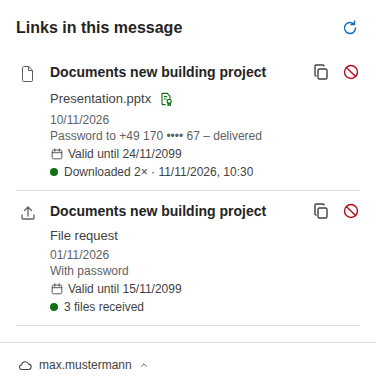
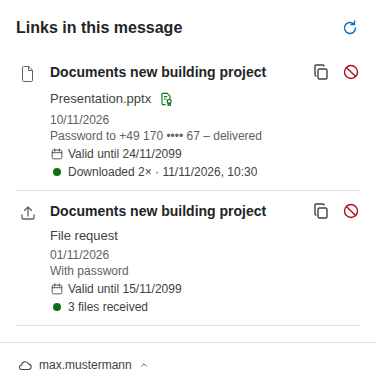
History lines: "Nachricht und Kennwort an", symbols aligned, shorter hint (#111)
* History lines: "Nachricht und Kennwort an", symbols aligned, shorter hint

- "Verlauf" / "Zustellnachweise": one line "<day> · Nachricht und Kennwort an …"
  when the password went by mail to exactly the recipients (sameAddresses), else
  "Nachricht an …" and "Kennwort an …" (other address, SMS)
- The state dot sits centred under the calendar of "Gültig bis"
- One-password hint without the trailing clause
- Help, README, architecture and CLAUDE.md in step

* README pictures of the pane from CI (readme-pictures)

---------

Changed region(s): [[0.117, 0.4352, 0.7021, 0.4663], [0.117, 0.7772, 0.4096, 0.8083]]

diff --git a/addin/e2e/taskpane.e2e.ts b/addin/e2e/taskpane.e2e.ts
@@ -713,7 +713,7 @@ test("uploads a large attachment in chunks, removes it and inserts the card", as
   // "Zufällig", "Eigenes", "Ohne Kennwort" and "Kennwort an" are greyed out.
   await expect(page.locator("#mode-same")).toBeChecked();
   await expect(page.locator("#password")).toHaveValue(password);
-  await expect(page.locator("#password-hint")).toContainText("pro Nachricht nur ein Kennwort");
+  await expect(page.locator("#password-hint")).toHaveText("Diese Nachricht hat schon ein Kennwort. Weitere Dateien, Nachrichten und Upload-Links erhalten dasselbe Kennwort auf demselben Weg.");
   expect(JSON.parse((await officeLog(page)).session["cloudshare-state"]).lastStep.password).toBe(password);
   for (const mode of ["#mode-random", "#mode-own", "#mode-none"]) await expect(page.locator(mode)).toBeDisabled();
   await expect(page.locator("#password-channel")).toBeDisabled();
@@ -1916,6 +1916,7 @@ const SENT_MAIL = '<p>Hallo,</p><a href="https://cloud.example.com/s/a">Herunter
 test("Verlauf: the subject is the title and opens the mail; confidential messages with password and revoke only", async ({ page }) => {
   const message = { id: "msg-s1", kind: "message", name: "Vertrauliche Nachricht", url: null, accessId: "acc9", sharedAt: Date.parse("2026-11-12"),
     expiration: "2099-11-17", downloads: null, received: null, protected: true, passwordAvailable: true, subject: "Zugangsdaten", mailId: "AAMk-mail",
+    sentAt: Date.parse("2026-11-12T09:00:00Z"), sentTo: { to: ["Erika@example.com"], cc: [] },
     password: { channel: "mail", to: "erika@example.com", status: null, at: Date.parse("2026-11-12T08:00:00Z"), deliveredAt: null } };
   const calls = await openTaskpane(page, {
     shares: [
@@ -1936,7 +1937,8 @@ test("Verlauf: the subject is the title and opens the mail; confidential message
   );
   await expect(rows.nth(0).locator(".share-title")).toHaveAttribute("aria-label", "Unterlagen Neubau, Nachricht öffnen");
   // Like "Zustellnachweise": the day it went out and to whom (To and Cc) right in the entry.
-  await expect(rows.nth(0).locator(".share-sent")).toHaveText("16.11.2026 · an erika@example.com, max@example.com, chef@example.com");
+  await expect(rows.nth(0).locator(".share-sent")).toHaveText("16.11.2026 · Nachricht an erika@example.com, max@example.com, chef@example.com");
+  await expect(rows.nth(0).locator(".share-password")).toHaveText("Kennwort an +49 170 •••• 67 – zugestellt"); // SMS: its own line
   // Below the subject what went out, in plain text: the file name (the document symbol on the left shows the kind).
   await expect(rows.nth(0).locator(".share-item")).toHaveText("Präsentation.pptx");
   await expect(rows.nth(0).locator(".badge")).toHaveCount(0);
@@ -1961,6 +1963,9 @@ test("Verlauf: the subject is the title and opens the mail; confidential message
   await expect(msg.locator(".insert")).toBeHidden();
   await expect(msg.locator(".share-state")).toBeHidden(); // no download state for a message
   await expect(msg.locator(".share-valid")).toHaveText("Gültig bis 17.11.2099");
+  // Message and password to the same address (case does not matter): one line, the password line hidden.
+  await expect(msg.locator(".share-sent")).toHaveText("12.11.2026 · Nachricht und Kennwort an Erika@example.com");
+  await expect(msg.locator(".share-password")).toBeHidden();
   await expectAccessible(page);
 
   // Revoked: deleted in Vaultwarden.
@@ -2526,7 +2531,9 @@ test("Zustellnachweise: every proof in the account menu, filtered and searched, 
   const entries = page.locator("#proofs-list .proof-entry");
   await expect(entries).toHaveCount(2);
   await expect(entries.nth(0).locator(".share-title")).toHaveText("Unterlagen Neubau");
-  await expect(entries.nth(0)).toContainText("18.11.2026 · an erika@example.com");
+  // Message and password to the same address: one line instead of the address twice.
+  await expect(entries.nth(0).locator(".proof-sent")).toHaveText("18.11.2026 · Nachricht und Kennwort an erika@example.com");
+  await expect(entries.nth(0).locator(".proof-password")).toBeHidden();
   // Like a row of "Verlauf": the file with its seal, to whom, the state with its dot, the tracking ID.
   await expect(entries.nth(0).locator(".share-item")).toHaveText("Angebot.zip");
   await expect(entries.nth(0).locator(".state-text")).toHaveText("1× heruntergeladen");
@@ -2539,7 +2546,9 @@ test("Zustellnachweise: every proof in the account menu, filtered and searched, 
   await expect(entries.nth(0).locator(".share-actions")).toHaveCount(0);
   await expect(entries.nth(1).locator(".state-text")).toHaveText("Noch nicht abgerufen");
   await expect(entries.nth(1).locator(".share-valid")).toHaveText("Gültig bis 26.11.2026");
-  await expect(entries.nth(0).locator(".proof-password")).toHaveText("Kennwort an erika@example.com");
+  // The password went to another address: two lines.
+  await expect(entries.nth(1).locator(".proof-sent")).toHaveText("12.11.2026 · Nachricht an kunde@example.org");
+  await expect(entries.nth(1).locator(".proof-password")).toHaveText("Kennwort an erika@example.com");
   // The subject opens the sent mail, as in "Verlauf" – only where the mail is known.
   await entries.nth(0).locator("button.share-title").click();
   await expect.poll(async () => (await officeLog(page)).openedMails).toContain("ews-proof-20261118-1646-CBMH");

diff --git a/addin/src/taskpane/taskpane.ts b/addin/src/taskpane/taskpane.ts
@@ -2184,6 +2184,15 @@ function proofSeal(id: string, state: ProofState | null | undefined): HTMLButton
 
 const dayOf = (date: string) => formatDate(Date.parse(`${date}T12:00:00Z`));
 
+/**
+ * The password went by mail to exactly the addresses the message went to (To, Cc): then one line says both –
+ * "Nachricht und Kennwort an …" – instead of the same addresses twice. Any other address or an SMS keeps two lines.
+ */
+function sameAddresses(a: string[], b: string[]): boolean {
+  const norm = (list: string[]) => [...new Set(list.map((s) => s.trim().toLowerCase()).filter(Boolean))].sort().join(",");
+  return a.length > 0 && norm(a) === norm(b);
+}
+
 /** The line "Gültig bis 03.12.2026" of an entry in "Verlauf" and "Zustellnachweise" – above its state. */
 const VALID_LINE =
   `<div class="share-meta share-valid" hidden><svg class="icon" viewBox="0 0 16 16" aria-hidden="true">` +
@@ -2245,10 +2254,13 @@ function proofRow(p: ProofItem): HTMLElement {
   item.textContent = p.kind === "file" ? p.files.join(", ") : t(`shares.kind.${p.kind}`);
   item.title = p.files.join(", ");
   item.append(proofSeal(p.id, p.state));
+  // "Nachricht und Kennwort an …" when both went to the same addresses, else "Nachricht an …" and "Kennwort an …" –
+  // like the lines of "Verlauf".
+  const together = p.passwordTo !== null && sameAddresses(p.passwordTo, p.recipients);
   row.querySelector<HTMLElement>(".proof-sent")!.textContent =
-    t("proofs.sentTo", { date: formatDate(p.sentAt), to: p.recipients.join(", ") || "–" });
-  // "Kennwort an erika@example.com" – like the password line of "Verlauf".
+    t(together ? "proofs.sentWithPasswordTo" : "proofs.sentTo", { date: formatDate(p.sentAt), to: p.recipients.join(", ") || "–" });
   const password = row.querySelector<HTMLElement>(".proof-password")!;
+  password.hidden = together;
   password.textContent = p.passwordTo === null
     ? t("proofs.withoutPassword")
     : p.passwordTo.length ? t("proofs.passwordTo", { to: p.passwordTo.join(", ") }) : t("proofs.passwordPending");
@@ -2828,14 +2840,17 @@ function shareRow(share: ShareItem): HTMLElement {
     row.querySelector(".share-head")!.after(item);
   }
 
-  // The same lines as an entry of "Zustellnachweise": "18.11.2026 · an erika@example.com", "Kennwort an …", and the
-  // state ending in "endet 02.12.2026".
+  // The same lines as an entry of "Zustellnachweise": "18.11.2026 · Nachricht und Kennwort an erika@example.com" when
+  // the password went by mail to exactly the recipients, else "… · Nachricht an …" and "Kennwort an …" (other address,
+  // SMS) – then "Gültig bis …" and the state.
   const sentLine = row.querySelector<HTMLElement>(".share-sent")!;
   const sentTo = share.sentTo ? [...share.sentTo.to, ...share.sentTo.cc] : [];
+  const together = share.password?.channel === "mail" && sentTo.length > 0 && sameAddresses(share.password.to.split(/,\s*/), sentTo);
   sentLine.textContent = sentTo.length
-    ? t("proofs.sentTo", { date: formatDate(share.sentAt ?? share.sharedAt), to: sentTo.join(", ") })
+    ? t(together ? "proofs.sentWithPasswordTo" : "proofs.sentTo", { date: formatDate(share.sentAt ?? share.sharedAt), to: sentTo.join(", ") })
     : formatDate(share.sharedAt);
-  sentLine.title = t("shares.sharedOn", { date: formatDate(share.sharedAt) });
+  sentLine.title = [t("shares.sharedOn", { date: formatDate(share.sharedAt) }), together && share.password ? passwordText(share.password) : ""]
+    .filter(Boolean).join("\n");
   const passwordLine = row.querySelector<HTMLElement>(".share-password")!;
   passwordLine.textContent = share.password
     ? passwordShort(share.password)
@@ -2843,7 +2858,8 @@ function shareRow(share: ShareItem): HTMLElement {
       ? t("proofs.withoutPassword")
       : t("shares.withPasswordLine");
   // Not sent yet: the bold line below says so – no "Kennwort noch nicht gesendet" on top of it.
-  passwordLine.parentElement!.hidden = Boolean(share.unsent && !share.password && share.protected !== false);
+  // Said in the line above already ("Nachricht und Kennwort an …").
+  passwordLine.parentElement!.hidden = together || Boolean(share.unsent && !share.password && share.protected !== false);
   fillValidLine(row, share.expiration);
   passwordLine.title = share.password ? passwordText(share.password) : "";
   passwordLine.classList.toggle("failed", share.password?.status === "failed");

diff --git a/addin/src/taskpane/taskpane.css b/addin/src/taskpane/taskpane.css
@@ -521,14 +521,15 @@ button.share-title:focus-visible { outline: 2px solid var(--focus); outline-offs
 .share-meta { font-size: 12px; line-height: 16px; color: var(--fg3); }
 .share-password.failed { color: var(--danger-fg); }
 .share-unsent { color: var(--fg2); font-weight: 600; }
-.share-state { display: flex; align-items: center; gap: 6px; font-size: 12px; line-height: 16px; margin-top: 2px; color: var(--fg2); }
+.share-state { display: flex; align-items: center; gap: 4px; font-size: 12px; line-height: 16px; margin-top: 2px; color: var(--fg2); }
 /* The state ("1× heruntergeladen · …") on one line – shortened with "…", the whole text in its tooltip. */
 .share-state .state-text { min-width: 0; overflow: hidden; text-overflow: ellipsis; white-space: nowrap; }
 /* "Gültig bis 03.12.2026" above the state: a calendar before it, orange from two days before the end. */
 .share-valid { display: flex; align-items: center; gap: 4px; margin-top: 2px; color: var(--fg2); }
 .share-valid .icon { width: 14px; height: 14px; flex: none; }
 .share-valid.soon { color: var(--warning-fg); }
-.share-state .dot-state { width: 8px; height: 8px; border-radius: 50%; background: var(--stroke1); flex: none; }
+/* The dot centred in the 14px column of the calendar above, so both symbols and both texts line up. */
+.share-state .dot-state { width: 8px; height: 8px; margin: 0 3px; border-radius: 50%; background: var(--stroke1); flex: none; }
 .share-state.done .dot-state { background: var(--success-fg); }
 /* Icon buttons at the right of the name; the revoke button shows "Wirklich?" as text until confirmed. */
 .share-actions { display: flex; flex: none; margin-right: -6px; }

diff --git a/CLAUDE.md b/CLAUDE.md
@@ -23,7 +23,7 @@ One container serves everything behind Caddy:
 - Nextcloud does not accept Entra tokens (typically it logs in via another IdP, e.g. Keycloak through `user_oidc`). Instead each user connects once via Nextcloud Login Flow v2; the resulting app password is stored encrypted per Entra `oid` in the database (`credentials.ts`, store `credentials`, key `CREDENTIAL_KEY`) and used as Basic auth. A 401 from Nextcloud deletes the stored credential and returns error code `NEXTCLOUD_NOT_CONNECTED`, which makes the taskpane show the connect view.
 - Nextcloud access is server-to-server (no CORS on Nextcloud): WebDAV chunked upload v2 + OCS share API (`nextcloud.ts`). Nextcloud-reported URLs are rewritten onto `NEXTCLOUD_URL`. Vaultwarden Sends are created through `bw serve` running in the same container on 127.0.0.1:8087 with a service account (`vaultwarden.ts`). Upload/job/pending-login state is in-memory (`store.ts`) → single instance only.
 - `addin/` – XML manifest + taskpane (Nextcloud connect/disconnect, converts existing attachments via `getAttachmentContentAsync` → upload → `removeAttachmentAsync`, plus file picker (`window.showOpenFilePicker` first, hidden `<input type="file">` as fallback – classic Outlook's WebView did not reliably open the dialog for a file input; steps are traced with `CLIENT_TRACE`) and drag & drop onto the "Senden" tab for files beyond Outlook's limit – in classic Outlook the WebView2 file dialog sometimes opens behind the Outlook window; inserts links) + event handlers in `commands.ts`: `OnMessageAttachmentsChanged` shows an InsightMessage with a "open taskpane" action (add-ins cannot open the taskpane themselves), `OnMessageRecipientsChanged` runs the same check (the size is the total of all attachments of the mail, and it depends on the recipients: `ATTACHMENT_THRESHOLD_MB` as soon as one is outside `INTERNAL_DOMAINS` – default the user's own domain –, else `ATTACHMENT_THRESHOLD_INTERNAL_MB` and `ATTACHMENT_POLICY_INTERNAL`, also without recipients; `attachmentRule` in `shared/office.ts`, 0 = every attachment, texts without a size; in the pane every attachment is ticked whatever its size, an unticked one stays unticked on redraw; every file row has an "×" that removes the file – no "Groß" mark), `OnMessageSend` runs with manifest `SendMode="SoftBlock"`; env `ATTACHMENT_POLICY` (served via `/api/config`, cached in `roamingSettings`) decides: `enforce` blocks large attachments before arming the password mail (no "Send anyway"), `suggest` arms the password mail first and relaxes to PromptUser via `sendModeOverride` (Mailbox 1.14). The taskpane mimics Outlook (Fluent 2 tokens, Office theme, Outlook wording "Nachricht"/"Kennwort") – keep new UI consistent with that. The message bar stays in sight at the top while the pane scrolls (`position: sticky`). Messages run down (`SUCCESS_MESSAGE_SECONDS`, default 5: a ring around the tick, "!" or "i" empties clockwise, paused on hover/focus, `setStatus`); progress (kind `progress`) and messages with "Erneut versuchen" stay. Bundled as IIFE because classic Outlook runs the handlers in a JavaScript-only runtime (no DOM, no ES modules); `commands.js` is built with target `es2016` and without `Headers`/`Promise.finally` (guarded by `addin/test/bundle.test.ts`); it registers its handlers immediately (classic) and again in `Office.onReady` (browser runtime: office.js loads `Office.actions` only after the script ran – `commands-load.test.ts`), and that runtime only allows SSO and fetch because the server serves `/.well-known/microsoft-officeaddins-allowed.json` listing `commands.js`.
-- Taskpane has no tabs: the view is "Senden" (reading a mail: the links of that mail, `#panel-mail`, `currentView`); "Verlauf" (`#shares-open`, right above "Zustellnachweise" in the account menu) is a page like the settings with a search `#shares-search` (`/api/shares`: all valid links, loaded when opened, on focus and by `#refresh-shares` in its head; one quiet bottom bar `.account-bar` under every tab, the help and the settings (one line: the account as a menu button `#account-toggle` like Outlook's profile menu – `#account-menu` opens above it with icon entries "Nextcloud öffnen" `#nextcloud-open` (NEXTCLOUD_URL from `/api/config` in the default browser, `openBrowserWindow`), "Zustellnachweise" `#proofs-open` (only with DELIVERY_PROOF: every proof, searchable), "Einstellungen" `#settings-open`, "Feedback senden" `#feedback-open` (only with `FEEDBACK_MAIL`: a page `#panel-feedback` – problem or suggestion, text, technical details shown before they go – mailed by `POST /api/feedback` from the user's own mailbox to that address, never anything public; `feedback.ts` in add-in and server, `docs/architecture.md` 2.15), "Hilfe" `#help-toggle` and "Verbindung trennen" `#disconnect` (two clicks like "Zurückziehen": `armDisconnect`), closes on Escape or a click elsewhere; its head `.account-menu-head` shows the whole name `#account-menu-name` and the storage `#account-storage` with a bar `#storage-meter` (used share of the quota, red from 90 %) – nothing else in the bar; fixed height `--bar-height`, the "Senden" footer sticks above it; variants are shown to the user before UI changes like this); one entry per link or confidential message: title = subject of its sent mail (`history.ts`, store `sent-mails`, Graph ID with `Prefer: IdType="ImmutableId"`; a click opens the mail via `openSentMail`: `GET /api/shares/:id/mail` translates the stored immutable ID into the current EWS ID with Graph `translateExchangeIds`, then `displayMessageFormAsync` – own mailbox only), below it plain text (file name, "Dateianforderung", "Vertrauliche Nachricht"), the kind as the symbol on the left (document, upload arrow, envelope with lock – no labels or coloured badges) (before sending: the draft's subject, sent with every link request as `subject`, `recordDraftSubject`; a subject typed later follows via `PATCH /api/jobs/:id` from the 4-second check `syncDraftSubject`; unsent without subject "(Noch kein Betreff)", older entries "(Betreff unbekannt)"), icon buttons Kopieren/Kennwort/Einfügen/Zurückziehen next to the title (messages: store `messages`, token `msg-<Send ID>`, only Kennwort and Zurückziehen – CloudShare never keeps their key) (long names shortened in the middle, extension kept – `nameParts`) (`ICONS` in `taskpane.ts`, also filled into the help via `data-icon`) and the same lines as an entry of "Zustellnachweise" – "<day> · an <To, Cc>", the password line, "Gültig bis <day>" with a calendar (`.share-valid`, `fillValidLine`, orange `--warning-fg` from two days before the end; a finished proof "Aufbewahrt bis <day>"), the state alone on the last line, shortened with "…" (password line: "Kennwort an <address>" / "Kennwort an <masked number> – <SMS state>", the time of the delivery in its tooltip; the same line in "Zustellnachweise"; dates always dd.mm.yyyy, times "HH:MM Uhr"; a delivery proof is a small seal `.proof-seal` after the file name that opens its PDF); revoke via `DELETE /api/shares/:id`, `revokeShare` in `shares.ts`; links are created on insert, so links whose job has not been dispatched are marked `unsent` – a job that expires without ever being armed (draft discarded, `armedOnce: false`) gets its links revoked by the watcher via `onUnsentExpired`/`revokeUnsentLinks`); "Hilfe" in the account menu (`#help-toggle`, `showHelp`) shows the guide in place of the current tab – a user guide for everyday users, `<details>` sections with texts `help.*` in the language files (keep it in plain words and in step with the UI when features change). "Senden" starts with a switch (`kind` radios, `selectKind`/`renderKind` in `taskpane.ts`) between "Dateien" (attachments + drop zone), "Nachricht" ("Vertrauliche Nachricht" via `/api/messages` = a Vaultwarden text Send protected with the step password, never stored in Nextcloud) and "Anfordern" (upload link via `/api/requests`); only the chosen part is shown and the single footer button `#submit` names what it inserts (`renderSubmit`). Below: password; the block "Empfänger", always in sight – "Kennwort an" (`<select>`) and for files the switch "Zustellnachweis" (`#proof`, `role="switch"`), label and control in one row (`.inline-row`); and "Gültigkeit" collapsed behind a one-line summary of the times (`renderValidity`). "Ohne Kennwort" is only offered for "Dateien" – prevent invalid choices in the UI rather than reporting them after the click, and say why: an option that does not exist for the chosen kind stays greyed out with an "i" that folds out the reason (`showUnavailable`, `#mode-none-unavailable`); "Zustellnachweis" is not shown at all for "Nachricht"/"Anfordern". Read mode: the manifest also has a pinnable `MessageReadCommandSurface` button (plus legacy `ItemRead` form) opening `taskpane.html?view=read` (`readMode`, `startReadView`) – tabs "Nachricht" (`#tab-mail`/`#panel-mail`: the shares whose token (`/s/<token>`) appears in the read mail's body, `mailTokens`; selected again on `ItemChanged`, in place of "Senden") and "Verlauf" (all valid links, as when writing); no server-side mail↔share mapping, no new permissions. A manifest change needs a new `<Version>`. Links are inserted (the first at the cursor, every further one right after the last CloudShare card wherever the cursor is – `cardPlace.ts`, `insertAfterLastCard`, body written back with `body.setAsync`) as an email-safe HTML card (`addin/src/taskpane/mailCard.ts`, tables + inline styles, one layout for files, message and upload link: title, a short sentence, the button on the left, details in grey below – per file a block –, buttons as filled table cells for classic Outlook, no signature – the sender's signature goes into the password mail, see below).
+- Taskpane has no tabs: the view is "Senden" (reading a mail: the links of that mail, `#panel-mail`, `currentView`); "Verlauf" (`#shares-open`, right above "Zustellnachweise" in the account menu) is a page like the settings with a search `#shares-search` (`/api/shares`: all valid links, loaded when opened, on focus and by `#refresh-shares` in its head; one quiet bottom bar `.account-bar` under every tab, the help and the settings (one line: the account as a menu button `#account-toggle` like Outlook's profile menu – `#account-menu` opens above it with icon entries "Nextcloud öffnen" `#nextcloud-open` (NEXTCLOUD_URL from `/api/config` in the default browser, `openBrowserWindow`), "Zustellnachweise" `#proofs-open` (only with DELIVERY_PROOF: every proof, searchable), "Einstellungen" `#settings-open`, "Feedback senden" `#feedback-open` (only with `FEEDBACK_MAIL`: a page `#panel-feedback` – problem or suggestion, text, technical details shown before they go – mailed by `POST /api/feedback` from the user's own mailbox to that address, never anything public; `feedback.ts` in add-in and server, `docs/architecture.md` 2.15), "Hilfe" `#help-toggle` and "Verbindung trennen" `#disconnect` (two clicks like "Zurückziehen": `armDisconnect`), closes on Escape or a click elsewhere; its head `.account-menu-head` shows the whole name `#account-menu-name` and the storage `#account-storage` with a bar `#storage-meter` (used share of the quota, red from 90 %) – nothing else in the bar; fixed height `--bar-height`, the "Senden" footer sticks above it; variants are shown to the user before UI changes like this); one entry per link or confidential message: title = subject of its sent mail (`history.ts`, store `sent-mails`, Graph ID with `Prefer: IdType="ImmutableId"`; a click opens the mail via `openSentMail`: `GET /api/shares/:id/mail` translates the stored immutable ID into the current EWS ID with Graph `translateExchangeIds`, then `displayMessageFormAsync` – own mailbox only), below it plain text (file name, "Dateianforderung", "Vertrauliche Nachricht"), the kind as the symbol on the left (document, upload arrow, envelope with lock – no labels or coloured badges) (before sending: the draft's subject, sent with every link request as `subject`, `recordDraftSubject`; a subject typed later follows via `PATCH /api/jobs/:id` from the 4-second check `syncDraftSubject`; unsent without subject "(Noch kein Betreff)", older entries "(Betreff unbekannt)"), icon buttons Kopieren/Kennwort/Einfügen/Zurückziehen next to the title (messages: store `messages`, token `msg-<Send ID>`, only Kennwort and Zurückziehen – CloudShare never keeps their key) (long names shortened in the middle, extension kept – `nameParts`) (`ICONS` in `taskpane.ts`, also filled into the help via `data-icon`) and the same lines as an entry of "Zustellnachweise" – "<day> · Nachricht an <To, Cc>" – "<day> · Nachricht und Kennwort an …" with the password line hidden when the password went by mail to exactly those addresses (`sameAddresses`) –, the password line, "Gültig bis <day>" with a calendar (`.share-valid`, `fillValidLine`, orange `--warning-fg` from two days before the end; a finished proof "Aufbewahrt bis <day>"), the state alone on the last line, shortened with "…" (password line: "Kennwort an <address>" / "Kennwort an <masked number> – <SMS state>", the time of the delivery in its tooltip; the same line in "Zustellnachweise"; dates always dd.mm.yyyy, times "HH:MM Uhr"; a delivery proof is a small seal `.proof-seal` after the file name that opens its PDF); revoke via `DELETE /api/shares/:id`, `revokeShare` in `shares.ts`; links are created on insert, so links whose job has not been dispatched are marked `unsent` – a job that expires without ever being armed (draft discarded, `armedOnce: false`) gets its links revoked by the watcher via `onUnsentExpired`/`revokeUnsentLinks`); "Hilfe" in the account menu (`#help-toggle`, `showHelp`) shows the guide in place of the current tab – a user guide for everyday users, `<details>` sections with texts `help.*` in the language files (keep it in plain words and in step with the UI when features change). "Senden" starts with a switch (`kind` radios, `selectKind`/`renderKind` in `taskpane.ts`) between "Dateien" (attachments + drop zone), "Nachricht" ("Vertrauliche Nachricht" via `/api/messages` = a Vaultwarden text Send protected with the step password, never stored in Nextcloud) and "Anfordern" (upload link via `/api/requests`); only the chosen part is shown and the single footer button `#submit` names what it inserts (`renderSubmit`). Below: password; the block "Empfänger", always in sight – "Kennwort an" (`<select>`) and for files the switch "Zustellnachweis" (`#proof`, `role="switch"`), label and control in one row (`.inline-row`); and "Gültigkeit" collapsed behind a one-line summary of the times (`renderValidity`). "Ohne Kennwort" is only offered for "Dateien" – prevent invalid choices in the UI rather than reporting them after the click, and say why: an option that does not exist for the chosen kind stays greyed out with an "i" that folds out the reason (`showUnavailable`, `#mode-none-unavailable`); "Zustellnachweis" is not shown at all for "Nachricht"/"Anfordern". Read mode: the manifest also has a pinnable `MessageReadCommandSurface` button (plus legacy `ItemRead` form) opening `taskpane.html?view=read` (`readMode`, `startReadView`) – tabs "Nachricht" (`#tab-mail`/`#panel-mail`: the shares whose token (`/s/<token>`) appears in the read mail's body, `mailTokens`; selected again on `ItemChanged`, in place of "Senden") and "Verlauf" (all valid links, as when writing); no server-side mail↔share mapping, no new permissions. A manifest change needs a new `<Version>`. Links are inserted (the first at the cursor, every further one right after the last CloudShare card wherever the cursor is – `cardPlace.ts`, `insertAfterLastCard`, body written back with `body.setAsync`) as an email-safe HTML card (`addin/src/taskpane/mailCard.ts`, tables + inline styles, one layout for files, message and upload link: title, a short sentence, the button on the left, details in grey below – per file a block –, buttons as filled table cells for classic Outlook, no signature – the sender's signature goes into the password mail, see below).
 - Personal settings ("Einstellungen" `#settings-open` in the account menu of the bottom bar, `#panel-settings` shown in place of the view like the help – `showOverlay`; history, settings, proofs and help are pages of their own in place of the view, "←" before the title or Escape leads back; every change saved at once, no save button – notices and signature in sight, ways, languages and "Zurücksetzen" under "Weitere Einstellungen" `#settings-more`): add-in `settings.ts` (form, `loadSettings`, `userSettings`), server `settings.ts` (store `settings`, `retention: false`, only changed fields; `settingsFor` = `config.userDefaults` from `DEFAULT_*` + stored + `availableSettings`), `/api/settings` GET/PUT/DELETE. Covers the offered password ways and the preselected one (`applyChannelChoices`, keeps the way a mail already uses), the notices (checked in `attachNoticeJob`, `runNotices`, `noteUndeliveredSms`; only where the server switch is on), the add-in language (`auto` or a code, also in `roamingSettings` `cloudshare-settings` → `preferredLanguage` in `i18n.ts`; reload once when it differs) and the signature of the mails to the recipients (password mail, code mail; `server/src/signature.ts`, `signatureHtml`: own text or else `MAIL_FOOTER`, plain text only – deliberately no formatted/HTML signature; empty line = paragraph (`signatureParagraphs`), profile placeholders via `fillTemplate`, escaped, each paragraph a `<p>` in `TEXT_STYLE` like "Guten Tag"; fixed in `PasswordJob.signature` when arming, built anew for "send again"). The link card carries no signature; every mail CloudShare sends to recipients (password mail, the code mail of the delivery proof) ends with the sender's signature (`PasswordRef.signature` is stored for every step). SMS rules and server switches are never user settings. Keep the help section `help.settings.*` in step.
 - Per-draft state lives in `item.sessionData` (`DraftState` in `shared/office.ts`: `jobId`, `password`, `noPassword`, `maxAccess`, `passwordTo` = other password recipient (job field, only that address gets the password mail), `separate` = password and password mail in steps (`step` ID per click, `PasswordJob.separate`) – one step per mail: `lastStep` = ID and password of the step with the password – after it "Gleiches Kennwort wie zuvor" (`#mode-same`) is selected, "Zufällig"/"Eigenes"/"Ohne Kennwort" and "Kennwort an" greyed out (`lockSeparate`, `lockChannel`; server `assertOnePassword`, 409 `ONE_PASSWORD`) and every further click reuses that step (`stepForClick`, joins the part on the server: one password, one password mail/SMS for files, message and upload link), `links` = share tokens of inserted links; if none of them is left in the body, `releaseDraftIfLinksGone` drops job/password/tag – taskpane on focus and every 4 s while locked, send handler before arming; drafts without `links` are never released). All files of one mail share one password, one Vaultwarden Send and one password mail (or, with "Ohne Kennwort" – file links only, `noPassword: true` on `/complete` – no password, no Send; with `DOWNLOAD_NOTICE` a job without password (`PasswordJob.noPassword`, `noticeShares`) only waits for the sent mail to register the download confirmation; `DraftState.noPassword` + `jobId`). With "per SMS" the pane hides "Kennwort abrufbar"/"Kennwort-Link gültig für" and SMS steps get Sends with `SEND_MAX_EXPIRE_DAYS`; the backend appends to an existing job via `jobId` on `/complete` unless it was already dispatched. The password mail is sent only after the mail was really sent: the taskpane tags the draft with the Office.js custom property `cloudshareJob` (MAPI `cecp-<add-in ID>`, `ADDIN_ID` env must match the manifest `<Id>`), the send handler only arms the job (`/api/jobs/:id/arm`, stores a Graph token with Mail.Read(.Shared) + Mail.Send(.Shared); the handler passes a "From" that differs from the user so shared-mailbox "Sent Items" are searched too and the password mail uses the same sender), and `server/src/jobs.ts` polls "Sent Items" and then mails the actual recipients. Password channel per insertion (while typing another address or SMS number the pane suggests the user's own Outlook contacts – `contactSuggest.ts`, `GET /api/contacts`; the address book button next to the field opens them A to Z on the page "Adressbuch" `#panel-contacts`, `addressBook.ts`, `?all=1`, back to the page it was opened from; "Erneut senden an" in "Verlauf" has both too, several addresses with commas – `data-multiple`, `addToList` –, optional delegated `Contacts.Read`, kept in memory only; each link request carries `passwordTo`/`passwordSms`, `deliveryFrom`; a step collects the ways of its links in `SeparatePart.deliveries` and sends each once – `partDeliveries`, `sentWays`; older steps fall back to the job's one way set by `PATCH`/`/arm`): recipients, `passwordTo` or `passwordSms` (seven.io, `sms.ts`, after sending, password read from the Send, webhook `/webhooks/seven`, status in `deliveries.ts`; `SMS_ALLOWED_COUNTRIES` limits the countries by calling code (`countries.ts` reads ISO codes, calling codes, German/English names and groups), `SMS_ALLOWED_NUMBERS`/`SMS_BLOCKED_NUMBERS` are regular expressions on the E.164 number (default blocks 0800/0900/0180; landlines allowed) – `smsNumberProblem` in `sms.ts` and `taskpane.ts`, the pane refuses such numbers while they are entered, the server on `PATCH`/resend and before every SMS; a failed SMS never falls back to another channel – the sender gets a note without password, `smsProblemMailHtml`; a refused SMS right away with the armed token, one reported later as not delivered only with `SMS_NOTICE` (app token; unset it follows `DOWNLOAD_NOTICE`, `envFlag` in `config.ts`)). Sends have two dates: recipients' access ("Kennwort-Link gültig für") and deletion = link expiry, so links with password last at most 30 days (Vaultwarden limit, `passwordLinkMaxDays`); `passwordRefs.ts` stores only the Send ID per sent step so the owner can see and resend the password ("Kennwort" in "Verlauf", `/api/shares/:id/password[/send]`) until the links expire – CloudShare never stores passwords itself; optional `templates.json` (`templates.ts`, user → department → default) and download confirmation (`notices.ts`, app permission `Mail.Send`, `DOWNLOAD_NOTICE`) and upload notification (same module, `UPLOAD_NOTICE`: upload links are `StepShare.request` with `knownFiles`, registered as `kind: "upload"`, each pass mails the new files of the folder until the link expires); every mail CloudShare sends itself (password mail, download confirmation, SMS notes) uses `mailLayout.ts` – text, one card with an accent per kind (blue password, green downloaded, red problem), the line `mail.automatic`; keep new mails in that layout. All persistent state (jobs, password entries, deliveries, notices, the cleanup list of uploaded files – `cleanup.ts`, `CLEANUP_AFTER_DAYS`, deletes upload folders after link expiry – and the Nextcloud connections) lives in one SQLite database `/data/cloudshare.db` (`db.ts`, Node 24 built-in `node:sqlite`): one table `entries (store, key, data)`, every row sealed AES-GCM with `CREDENTIAL_KEY` (`storage.ts`); each module keeps a `PersistentMap` in memory – `set`/`delete` write their row, an entry changed in place needs `map.save(key)`; a daily pass deletes rows not written for `DATA_RETENTION_DAYS` (default 365, `startRetention`), except maps created with `retention: false` (connections, cleanup list). No upload size cap except the user's Nextcloud quota (checked up front via OCS `cloud/user`, 507 → `NEXTCLOUD_QUOTA_EXCEEDED`).
 - Sensitivity labels (`docs/architecture.md` 2.13): `addin/src/taskpane/labels.ts` reads the Purview label (names and priority from `GET /api/labels` – Graph with the optional delegated `InformationProtectionPolicy.Read` –, else Outlook's catalog) from the shared file itself (OOXML `docMetadata/LabelInfo.xml` or `docProps/custom.xml`, compound files incl. encrypted Office files via the unencrypted `LabelInfo` stream, PDF XMP, `.pfile` = protected), shown under the file name in the list; after inserting, the mail gets the highest label of its files via `item.sensitivityLabel` (catalog order = rank, never lowered; `LABEL_POLICY` inherit/suggest/off), encrypted files get a note below the file list and need its box ticked (`LABEL_ENCRYPTED` warn/block/allow). Tests use example label IDs only.

diff --git a/README.md b/README.md
@@ -140,7 +140,7 @@ read) and is not shown for the other two.
 
 <br clear="right">
 
-<img src="docs/images/taskpane-shares.png" alt="History, a page of the account menu with a search field: like the proofs of delivery - the day and recipients, Password to ..., Valid until ... with a calendar and the download status on its own line, and the icons Copy, Password, Insert, Revoke next to the subject; the first link has the seal of a proof of delivery after its file name and Password is open with the password and Send again to" width="300" align="right">
+<img src="docs/images/taskpane-shares.png" alt="History, a page of the account menu with a search field: like the proofs of delivery - the day and recipients (message and password to ... when they are the same), Password to ..., Valid until ... with a calendar and the download status on its own line, and the icons Copy, Password, Insert, Revoke next to the subject; the first link has the seal of a proof of delivery after its file name and Password is open with the password and Send again to" width="300" align="right">
 
 **"History"** – a page of the account menu at the bottom left, above "Proofs of delivery" – lists everything you sent
 with CloudShare that is still valid – links and confidential messages, newest first; the search field at the top
@@ -150,7 +150,8 @@ a click opens that mail in Outlook (only mails
 of your own mailbox) –, below it what went out – the file name, "File request" or "Confidential message" (the symbol on the left shows the
 kind: a document, an upload arrow, an envelope with a lock)
 –, then one short line each for
-the day and recipients, the password (with / without, or how it went out: "Password by text message to …
+the day and recipients – "message and password to …" when the password went to the same addresses –, else the password
+(with / without, or how it went out: "Password by text message to …
 – delivered"), **"Valid until 24.11.2026"** with a calendar (orange in the last two days) and, on its own line, the
 downloads (or received files; Vaultwarden does not report whether a message was opened). A
 confidential message has no "Copy" or "Insert" – CloudShare does not keep its key – but "Password" and "Revoke"

diff --git a/docs/architecture.md b/docs/architecture.md
@@ -808,7 +808,9 @@ Step by step, with checks, maintenance and error table: **[docs/microsoft-365.md
   to whom, the tracking ID in bold, then the state with its dot; no action icons – the list is for looking things up);
   filters it while typing over tracking ID, subject, recipients and file names (no other filters); the seal of an entry (`proofSeal`, also in
   "Verlauf" via `proofState` of `/api/shares`) is coloured by `caseSummary(c).state` – grey sent, blue confirmed, green
-  fetched – and opens its signed PDF; each entry has the line "Gültig bis …" (`endsOn`, `fillValidLine` – a calendar,
+  fetched – and opens its signed PDF; the sent line says "Nachricht und Kennwort an …" when the password went to exactly
+  the recipients (`sameAddresses`, the password line hidden), else "Nachricht an …" and "Kennwort an …"; each entry has the
+  line "Gültig bis …" (`endsOn`, `fillValidLine` – a calendar,
   orange from two days before the end; the same line in "Verlauf") or "Aufbewahrt bis …" (`keptUntil`), and the state
   alone on the line below.
 - **Help** ("Hilfe" in the account menu of the bottom bar, `#help-toggle`; `#panel-help` in `taskpane.html`, shown in place of the
